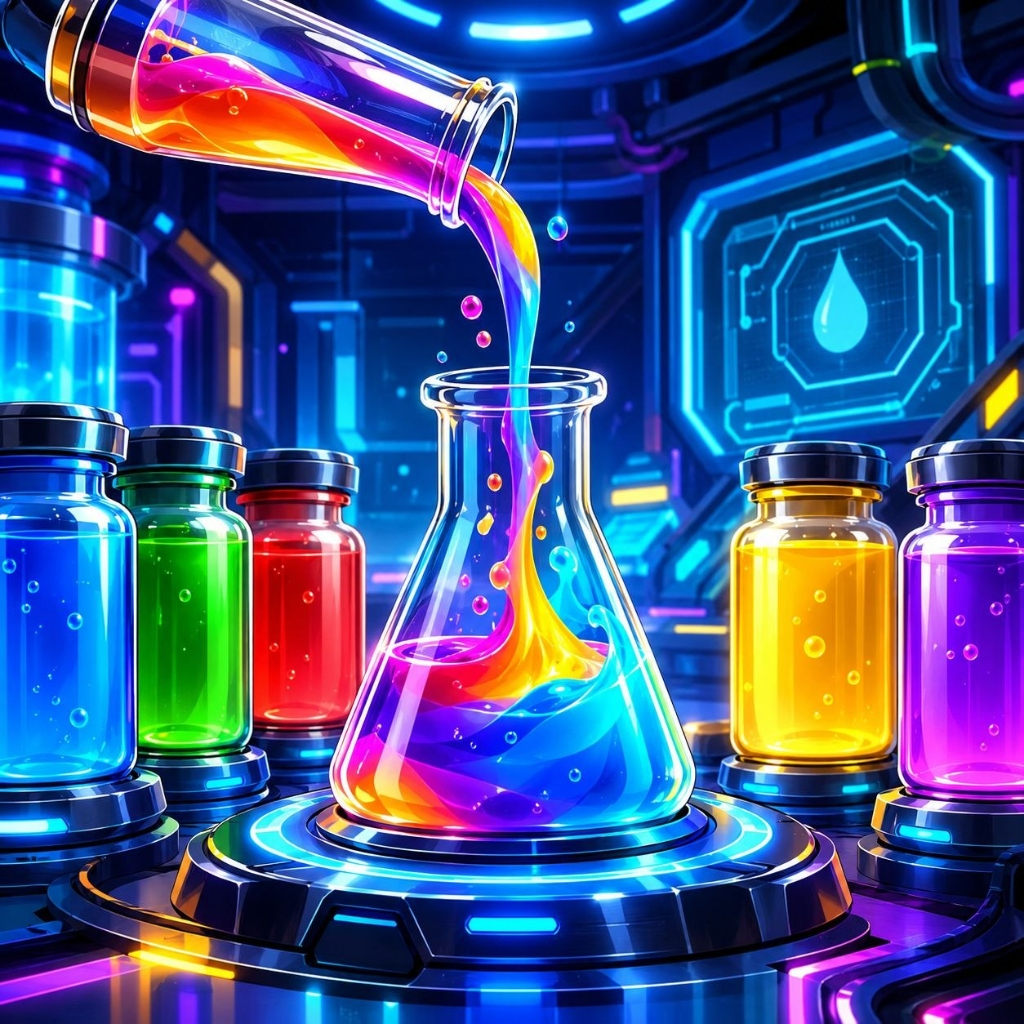
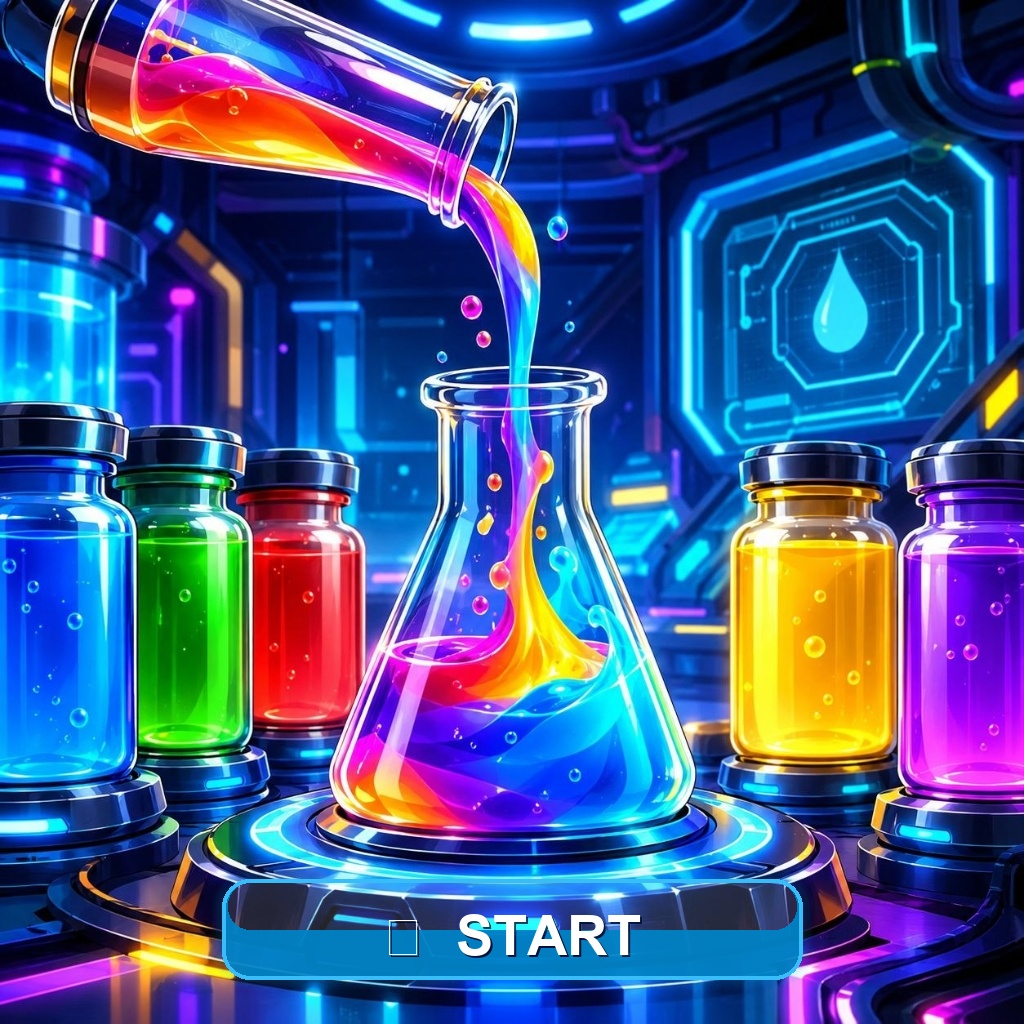
feat: embed glowing START button on referral image and update og:image cache buster

Changed region(s): [[0.1875, 0.8438, 0.8125, 0.9688]]

diff --git a/public/index.html b/public/index.html
@@ -10,15 +10,15 @@
   <meta property="og:url" content="https://yyt1093-source.github.io/color_sort_game/">
   <meta property="og:title" content="Color Sort 🧪 Сортируй жидкости и выигрывай!">
   <meta property="og:description" content="Заходи в игру по моей ссылке и получай +5 колб, +5 подсказок, +5 отмен и +5 открытий цветов! 🎁">
-  <meta property="og:image" content="https://yyt1093-source.github.io/color_sort_game/referral_share.jpg">
-  <meta property="og:image:secure_url" content="https://yyt1093-source.github.io/color_sort_game/referral_share.jpg">
+  <meta property="og:image" content="https://yyt1093-source.github.io/color_sort_game/referral_share.jpg?v=2">
+  <meta property="og:image:secure_url" content="https://yyt1093-source.github.io/color_sort_game/referral_share.jpg?v=2">
   <meta property="og:image:type" content="image/jpeg">
   <meta property="og:image:width" content="1024">
   <meta property="og:image:height" content="1024">
   <meta name="twitter:card" content="summary_large_image">
   <meta name="twitter:title" content="Color Sort 🧪 Сортируй жидкости и выигрывай!">
   <meta name="twitter:description" content="Заходи в игру по моей ссылке и получай +5 колб, +5 подсказок, +5 отмен и +5 открытий цветов! 🎁">
-  <meta name="twitter:image" content="https://yyt1093-source.github.io/color_sort_game/referral_share.jpg">
+  <meta name="twitter:image" content="https://yyt1093-source.github.io/color_sort_game/referral_share.jpg?v=2">
   
   <!-- Telegram WebApp SDK -->
   <script src="https://telegram.org/js/telegram-web-app.js"></script>
@@ -34,7 +34,7 @@
   <link rel="preconnect" href="https://fonts.gstatic.com" crossorigin>
   <link href="https://fonts.googleapis.com/css2?family=Plus+Jakarta+Sans:wght@400;600;700;800&display=swap" rel="stylesheet">
   
-  <link rel="stylesheet" href="style.css?v=47213">
+  <link rel="stylesheet" href="style.css?v=47214">
 </head>
 <body>
   <!-- Fullscreen Start Splash Screen -->
